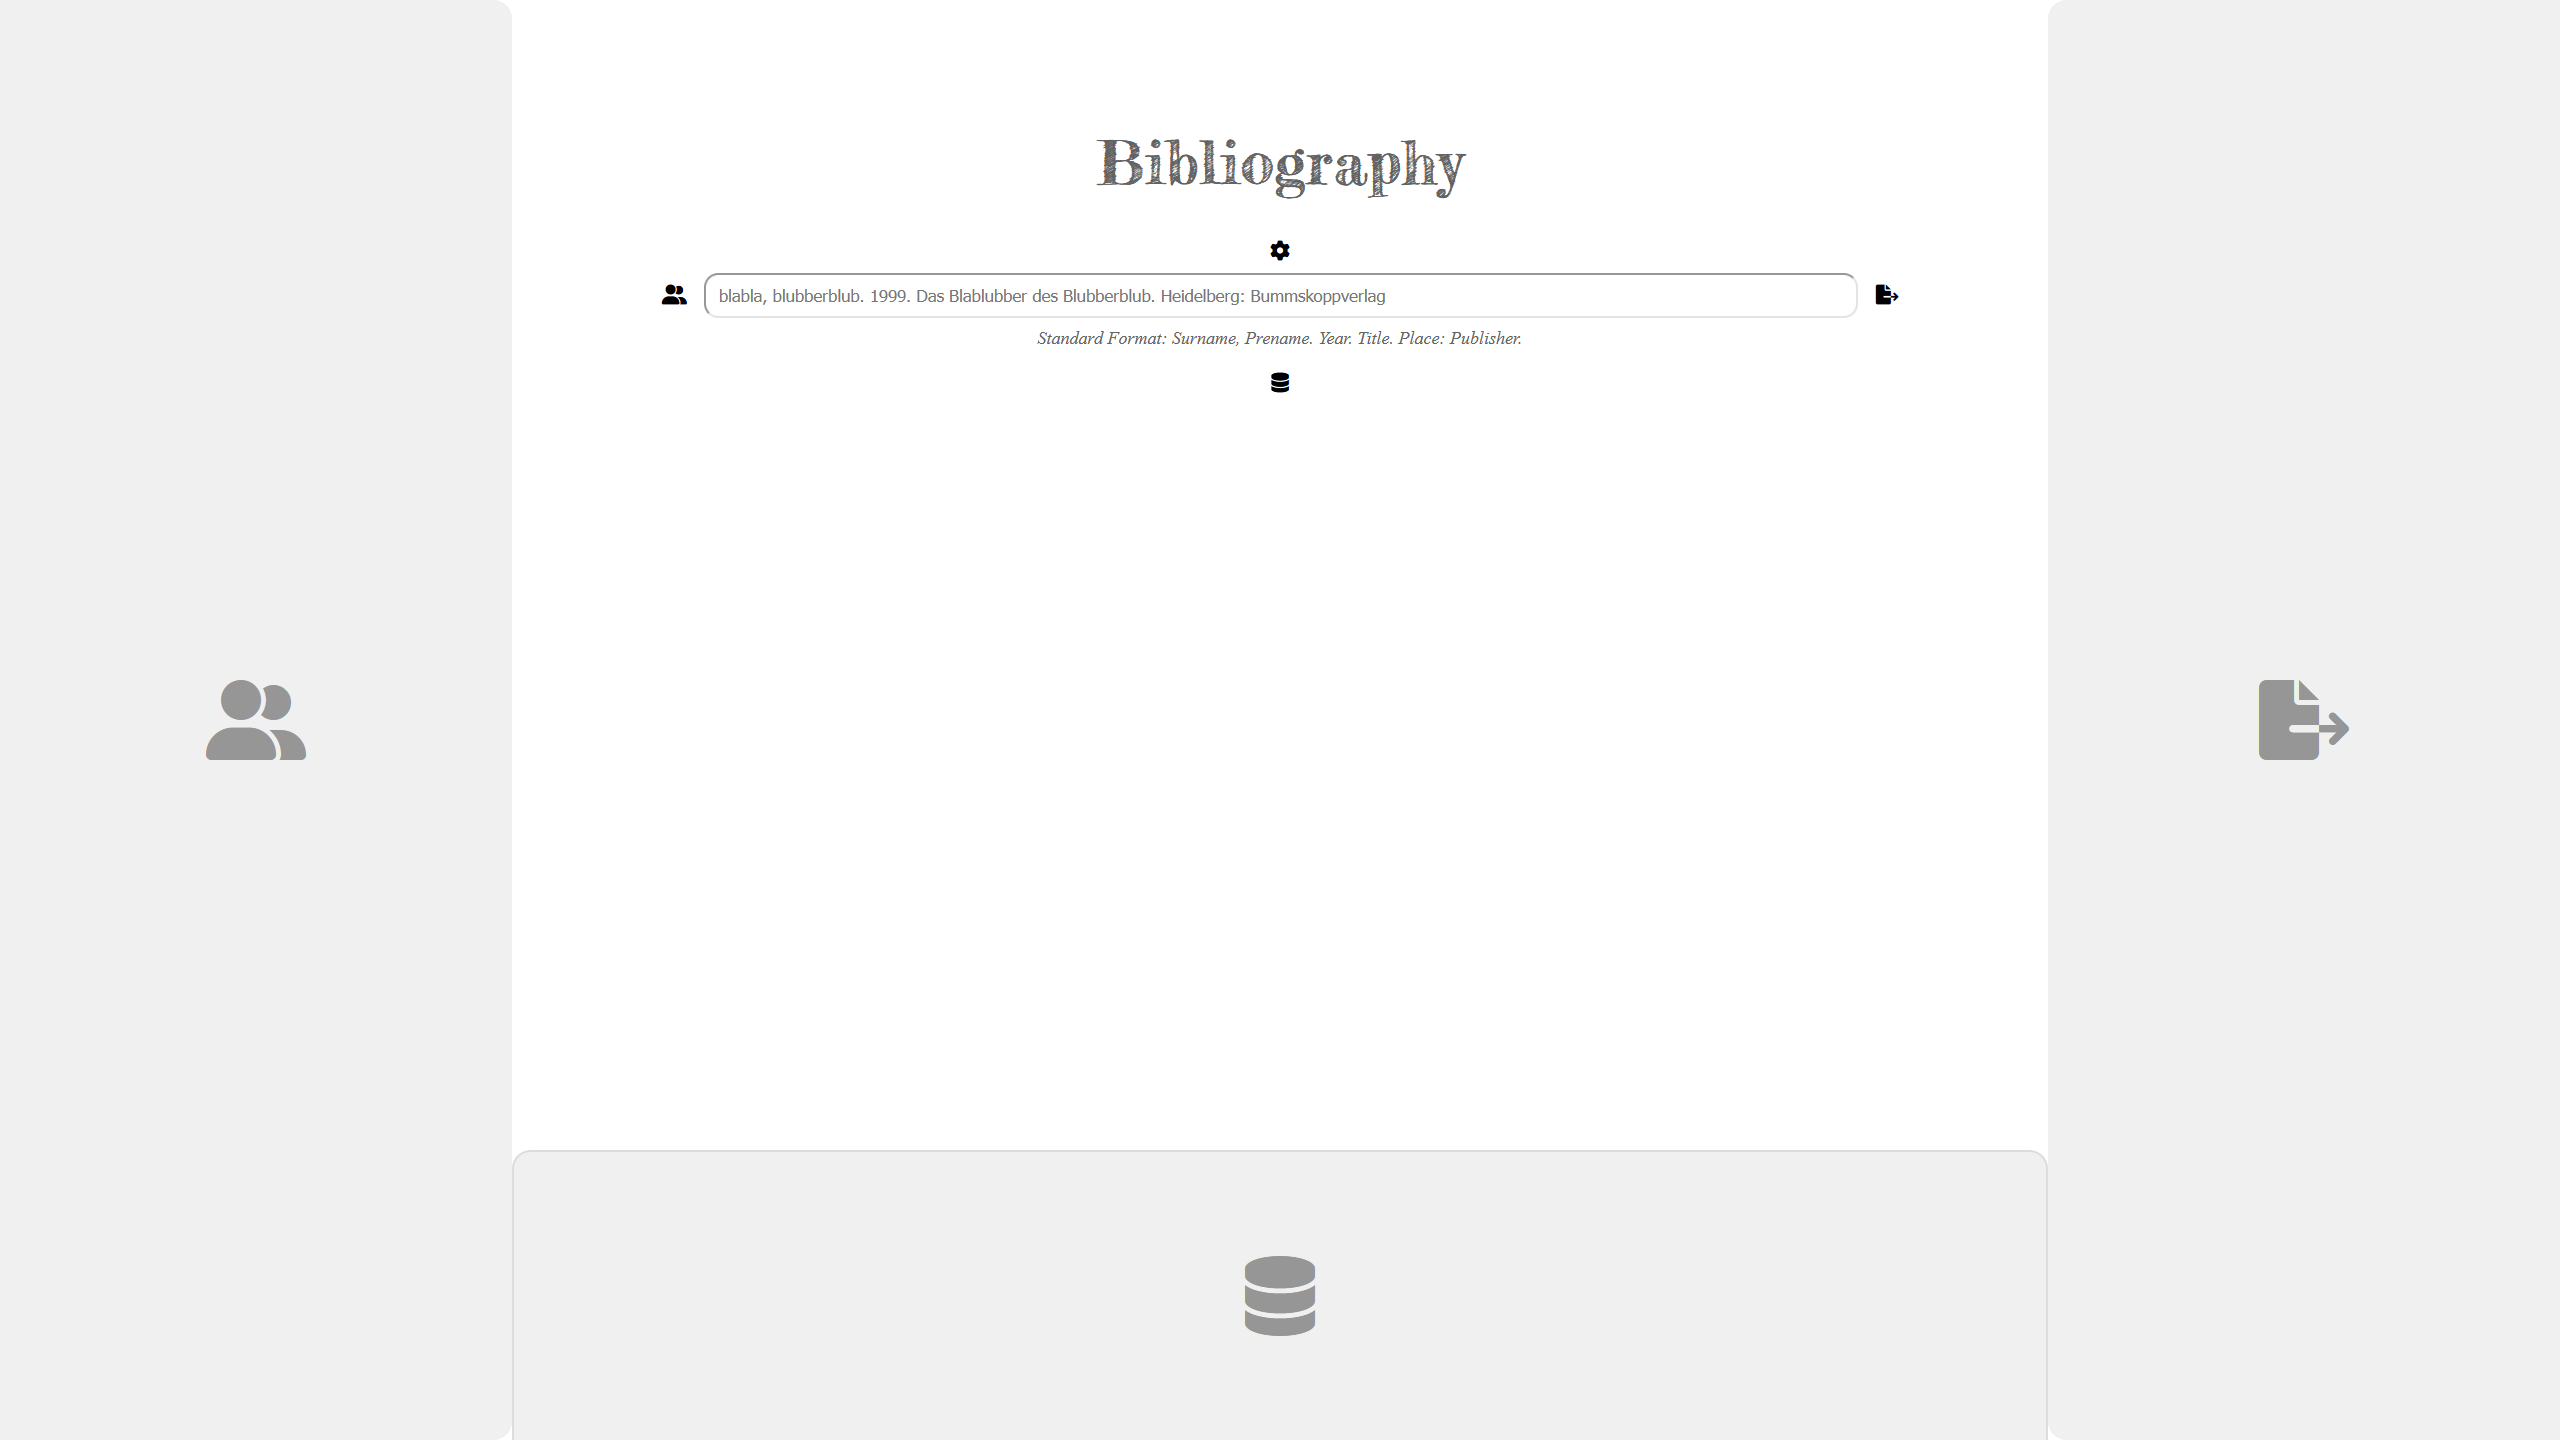
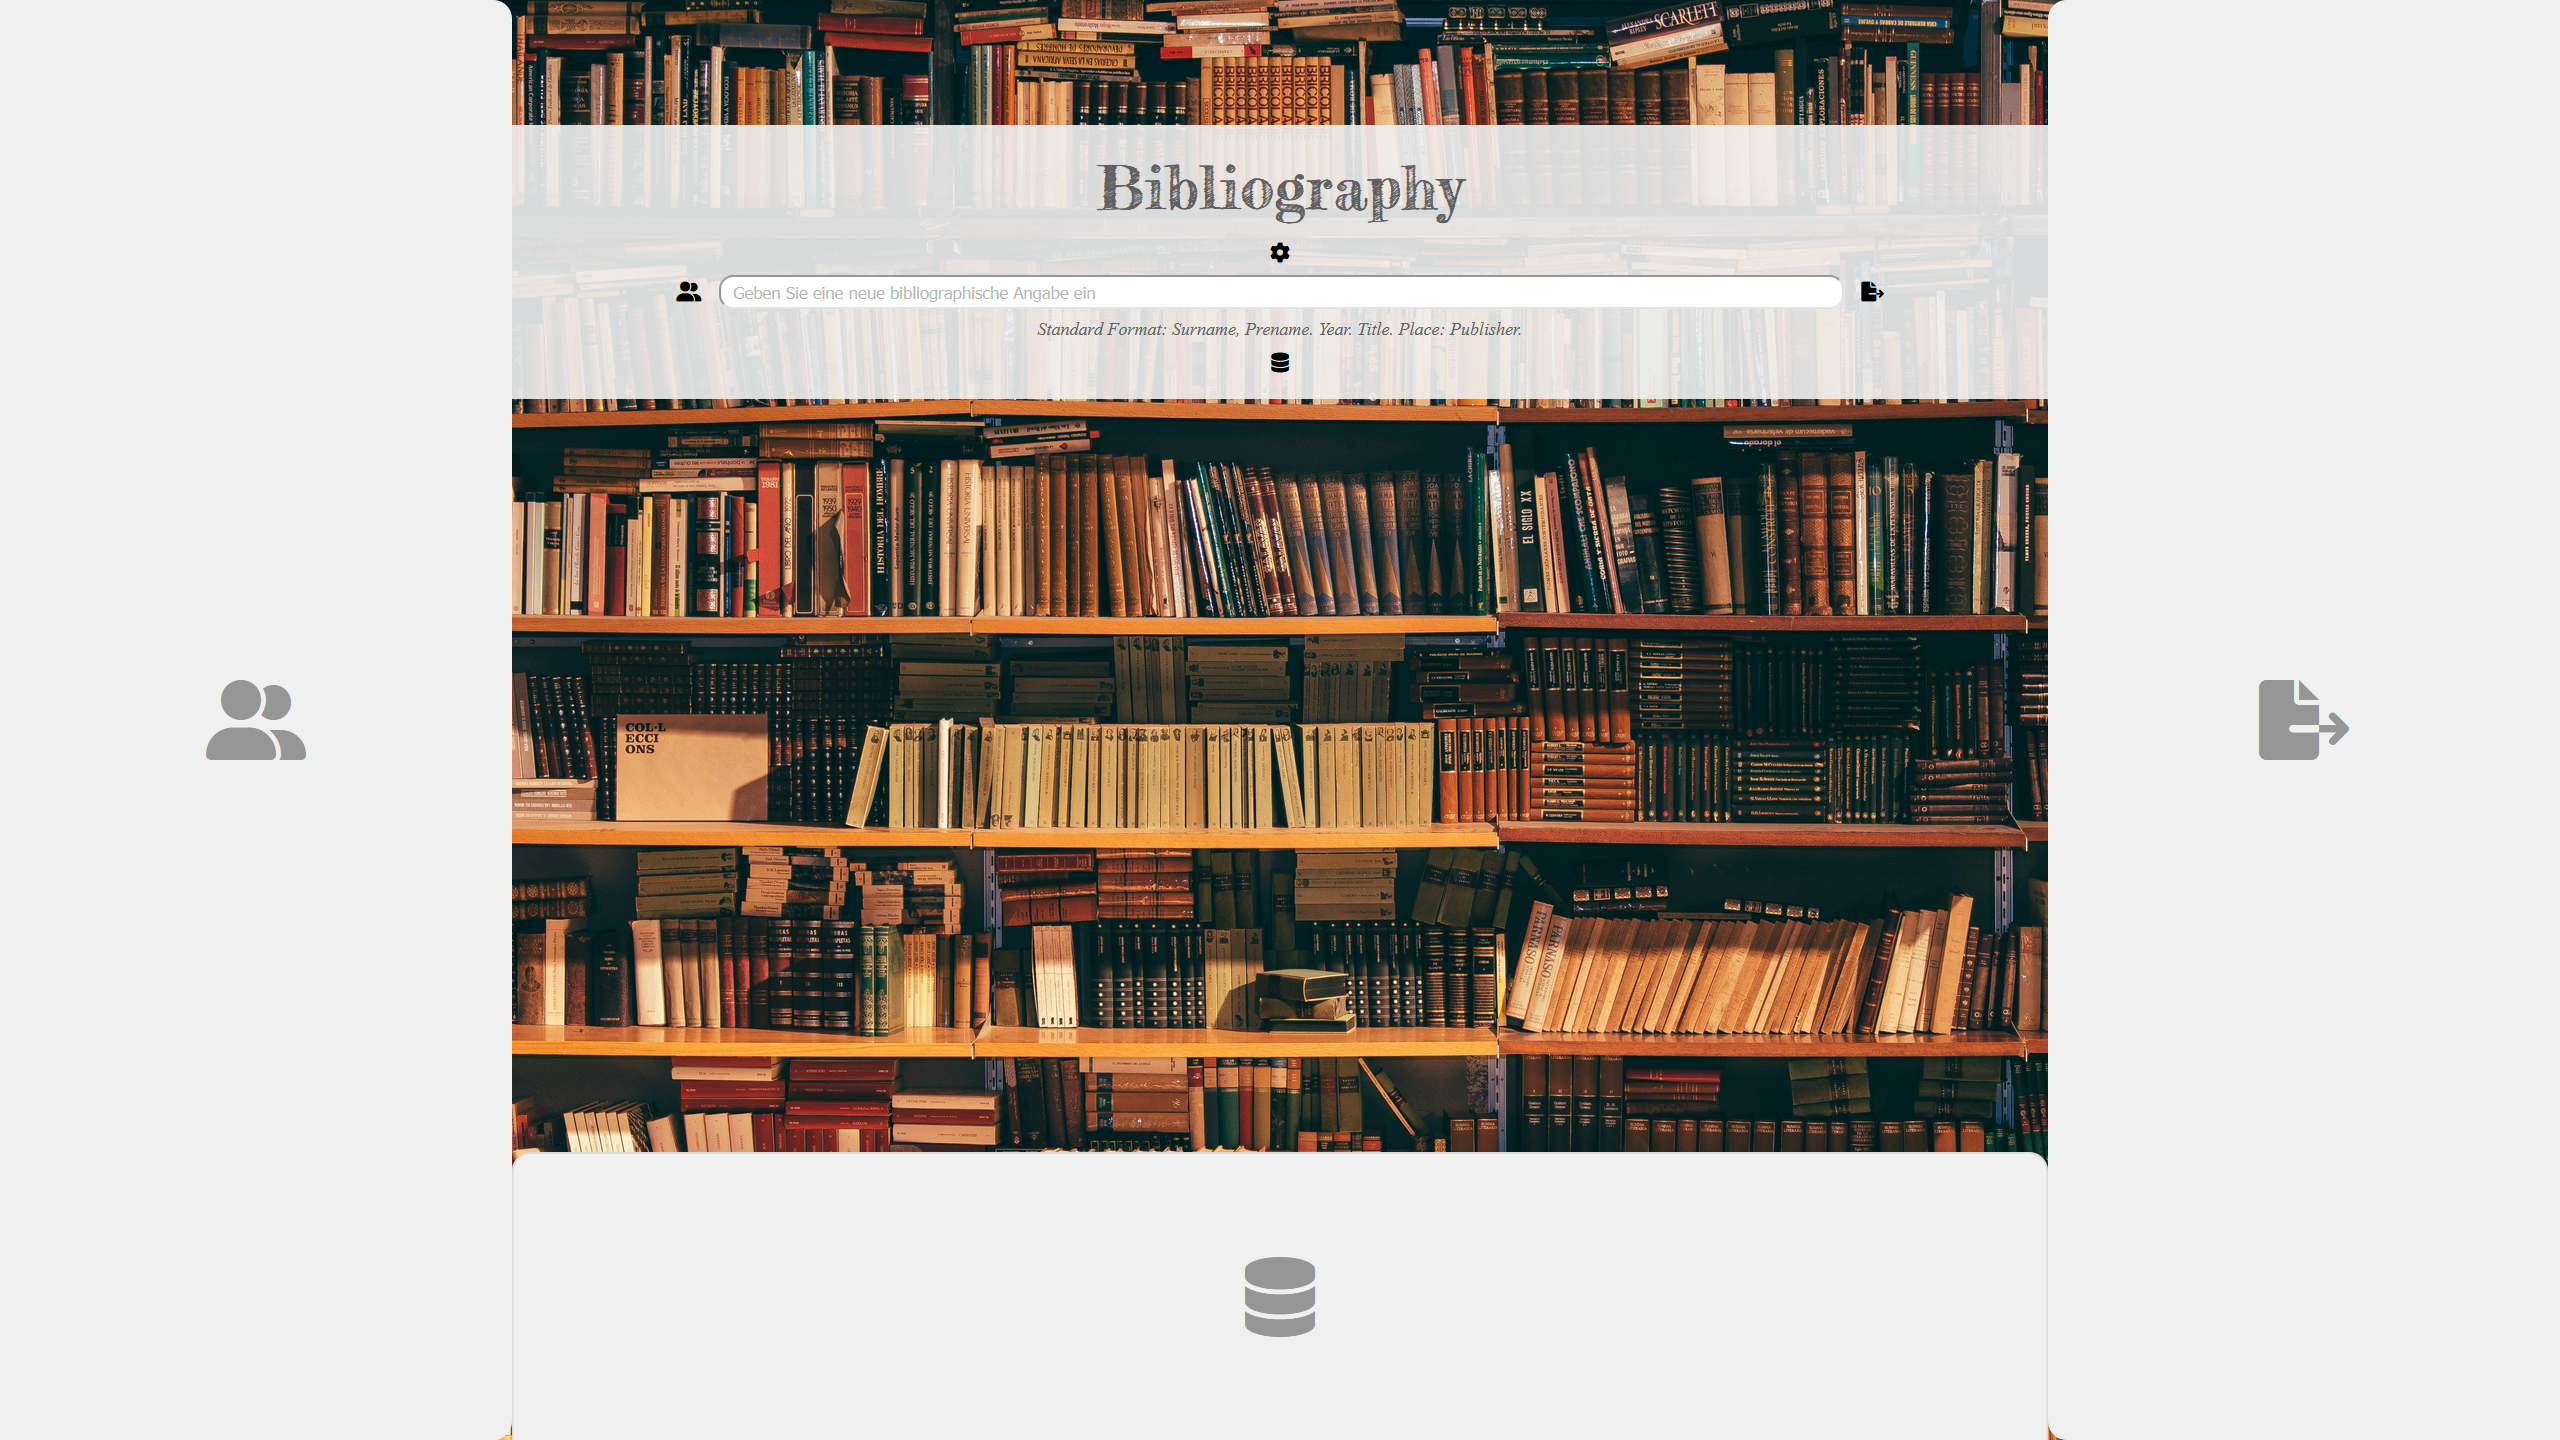
Added background images and some basic functions

diff --git a/index.html b/index.html
@@ -17,14 +17,16 @@
   </head>
   <body>
     <div id="alltainer">
-      <h1 style="margin-top: 100px;">Bibliography</h1>
-      <i class="fa-solid fa-gear" style="margin-bottom: 10px;" title="Open Settings"></i>
-      <div>
-        <i class="fa-solid fa-user-group" style="margin-right: 10px;" title="Open/Close Authors Tab"></i>
-        <input id="mainInput" type="text" placeholder="Geben Sie eine neue bibliographische Angabe ein" />
-        <i class="fa-solid fa-file-export" style="margin-left:10px;" title="Open/Close Export Tab"></i>
-        <p class="input_clue">Standard Format: Surname, Prename. Year. Title. Place: Publisher.</p>
-        <i class="fa-solid fa-database" style="margin-top:5px;" title="Open/Close Stock"></i>
+      <div id="mainInterface">
+        <h1>Bibliography</h1>
+        <i class="fa-solid fa-gear" style="margin-bottom: 10px;margin-top: 15px;" title="Open Settings"></i>
+        <div>
+          <i id="paneToggler-authors" class="fa-solid fa-user-group paneToggler" style="margin-right: 10px;" title="Open/Close Authors Tab"></i>
+          <input id="mainInput" type="text" placeholder="Enter a new bibliographic reference (or a known one to display details)" />
+          <i id="paneToggler-export" class="fa-solid fa-file-export paneToggler" style="margin-left:10px;" title="Open/Close Export Tab"></i>
+          <p class="input_clue">Standard Format: Surname, Prename. Year. Title. Place: Publisher.</p>
+          <i id="paneToggler-stock" class="fa-solid fa-database paneToggler" style="margin-top:10px;" title="Open/Close Stock"></i>
+        </div>
       </div>
     </div>
     <div id="authors"><i class="fa-solid fa-user-group" style="font-size: 400%;color:rgb(150,150,150);" title="Autors"></i></div>

diff --git a/style.css b/style.css
@@ -1,3 +1,8 @@
+* {
+  margin: 0;
+  box-sizing: border-box;
+}
+
 h1 {
   font-family: "Fredericka the Great";
   text-align: center;
@@ -14,21 +19,23 @@ h1 {
     margin-top:8px;
     color:rgb(100,100,100);
 }
+
 .input_clue:hover {
     color:rgb(20, 20, 20);
 }
-#alles {
-  position: relative;
-  top: 0px;
-  bottom: 0px;
-  height: 100%;
-}
+
+
+
 #alltainer {
+  position: absolute;
   width: 100%;
-  margin: 0 auto;
-  text-align: center;
-  position: relative;
+  height: 100%;
+  background-image: url('./images/background_1.jpg');
+  background-position: center;
+  background-repeat: no-repeat;
+  background-size: cover;
 }
+
 #authors {
   position: absolute;
   top: 0px;
@@ -40,7 +47,9 @@ h1 {
   align-items: center;
   justify-content: center;
   border-radius: 0 15px 15px 0;
+  visibility: hidden;
 }
+
 #export {
   position: absolute;
   top: 0px;
@@ -52,9 +61,11 @@ h1 {
   align-items: center;
   justify-content: center;
   border-radius: 15px 0 0 15px;
+  visibility: hidden;
 }
+
 #mainInput {
-  width: 58%;
+  width: 56%;
   min-width: 200px;
   max-width: 900px;
   margin: 0 auto;
@@ -63,12 +74,24 @@ h1 {
   padding: 3px 10px;
   color: rgb(120, 120, 120);
 }
+
 #mainInput:focus {
   color: rgb(20, 20, 20);
 }
+
 #mainInput:hover {
   color: rgb(20, 20, 20);
 }
+
+#mainInterface {
+  width: 100%;
+  margin: 15vh auto 20px;
+  text-align: center;
+  position: relative;
+  padding: 20px;
+  background-color: rgba(240, 240, 240, 0.9);
+}
+
 #stock {
   position: absolute;
   bottom: 0px;
@@ -83,4 +106,5 @@ h1 {
   align-items: center;
   justify-content: center;
   border-radius: 15px 15px 0 0;
+  visibility: hidden;
 }

diff --git a/index.js b/index.js
@@ -1,0 +1,24 @@
+let imageReload = setInterval(loadRandomBackgroundImage, 60000);
+equipListeners();
+
+function loadRandomBackgroundImage() {
+    let randomNum = Math.round((Math.random() * 16) + 1);
+    console.log('Random Number: ' + randomNum);
+    document.querySelector('#alltainer').style.backgroundImage = "url('./images/background_" + randomNum + ".jpg')";
+}
+
+function togglePane(e) {
+    let t = e.target.id.substring(12);
+    console.log('Target: ' + t);
+    let targetNode = document.querySelector('#'+t);
+    console.log('Visibility: ' + targetNode.style.visibility);
+    targetNode.style.visibility === 'visible' ? targetNode.style.visibility = 'hidden' : targetNode.style.visibility = 'visible';
+}
+
+function equipListeners() {
+    let toggleNodes = document.querySelectorAll('.paneToggler');
+    toggleNodes.forEach( (node) => { 
+        node.addEventListener('click', togglePane);
+     });
+    console.log('Listeners equipped!');
+}

diff --git a/README.md b/README.md
@@ -25,7 +25,7 @@ I am just starting out with this one, so there is not much yet to tell about it,
 "Scientific requirements" is a very broad term, but there are some general usecases that can be applied to any scientific working:
 
 - a scientific bibliographic reference **has to be rocksolid**! There has to be an exact date of publication, a place, a publisher, etc. - the reference has to be found unambigously, if someone is looking for it. So the app should always cry for those details, until the user provides them properly - BUT: even uncomplete references should be saved for later completion. There should be an option in the settings to turn "scientific requirements" on/off, so that a private person managing her/his books on the shelf is not bothered by the app.
-- a scientific publication nearly always **needs a very concrete format of bibliographic references**, depending on the subject area and the circumstances of publication, for example a journal, an anthology, or a stand-alone publication. That is: the same stock of bibliographic references needs to be easily exported to a very concrete text format, for example: &lt;author-surname&gt;,&lt;author-prename&gt;. &lt;year-of-publication&gt;. &lt;title&gt;:&lt;subtitle&gt;. &lt;place-of-publication&gt;: &lt;publisher&gt; - and an hour later the required format for another publication is totally different. So the app should allow for an export into the required output format, simply by asking the user for a template of the required form, suggesting some common default options.
+- a scientific publication nearly always **needs a very concrete format of bibliographic references**, depending on the subject area and the circumstances of publication, for example a journal, an anthology, or a stand-alone publication. That is: the same stock of bibliographic references needs to be easily exported to different very concrete text formats, for example: &lt;author-surname&gt;,&lt;author-prename&gt;. &lt;year-of-publication&gt;. &lt;title&gt;:&lt;subtitle&gt;. &lt;place-of-publication&gt;: &lt;publisher&gt; - and an hour later the required format for another publication is totally different. So the app should allow for an export into the required output format, simply by asking the user for a template of the required form, suggesting some common default options.
 - some scientific research has **the need for very special bibliographic details**, for example literature studies related to prominent authors like Shakespeare or Goethe, and philosophic studies concerned with many different translations of ancient philosophers. The app should allow to take care of those minute details by providing a possibility to easily define needed data-fields, grouping related publications in views, and saving the exact publication reference inside any citations.
 - some other scientific research has the need **to reference sources that do not easily fit into a classical bibliographic specification**, for example big datasets available online via a special webservice or as a special database. The app should also take care of the necessary details, again by prodiving a possibility to easily define custom data-fields or by providing such fields directly in the underlying model.
 - every reference to **an online source needs to be intact** in the moment of exporting a bibliography for publication purposes. The app should take care of this by pinging the referenced link and aiding the scientific user in ensuring this. 
